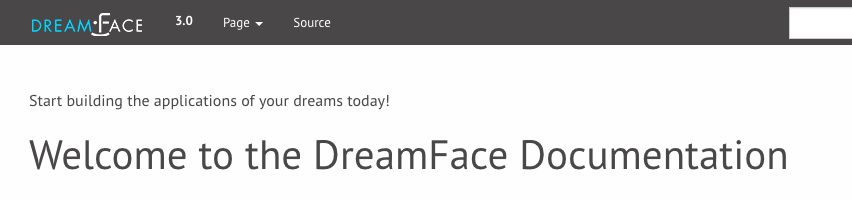
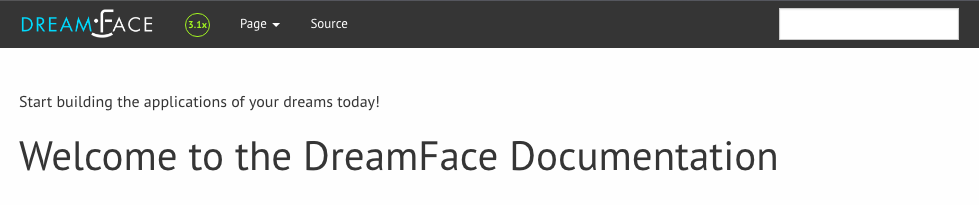
updates to studio explorer

diff --git a/source/devguide/ref-dfx-studio.rst b/source/devguide/ref-dfx-studio.rst
@@ -49,9 +49,9 @@ The Home page has three main sections:
 
     * Information is diplayed
     * Applications get created
-    * View, Pages and API get created and modified
-    * Configuration setting are defined
-    * Application workflow happens here
+    * View, Pages and API service objets and services get created and modified
+    * Configuration settings are defined
+    * Application development workflow happens here. It is where we define, configure and compose our applications.
 
 |
 
@@ -66,22 +66,40 @@ The Icon Bar
 
 .. image:: ../images/devguide/dfx-studio-hp-iconbar-left.png
 
-On the far left of the Icon Bar at the top of the page is the Home icon, the DreamFace logo and name *Studio* and highlighted
-in bright green is the current version of the platform.
+On the the left side of the Icon Bar at the top of the page is
 
-Clicking on the current version will display Release Notes in the canvas area.
+* the Home icon
+* the DreamFace logo
+* the application name *Studio* and
+* the current version of the DreamFace platform highlighted in bright green
+
+Clicking on the Home Icon will redisplay the the Application Platform Stats view or the initial view of the homepage.
+It’s a refresh of the canvas to go back to the initial view and redisplays application stats for all applications. It
+is very helpful when moving between apps and editing components.
+
+Clicking on the bright green current version will display the Release Notes in the canvas area.
 
 .. image:: ../images/devguide/dfx-studio-hp-rnotes.png
+   :width: 400px
 
 |
 
-**Tenant ID**
-
-On the right hand side of the iconbar is the ID of the your cloud tenant, a help icon and a *Sign Out* icon.
+**Tenant ID, Help Menu and Sign Out**
 
 .. image:: ../images/devguide/dfx-studio-hp-iconbar-rt.png
 
-The tenant ID is a unique ID provided by Bluemix. The tenant is a
+On the right hand side of the iconbar is
+
+* the ID of the your cloud tenant
+* a *Help* icon in the form of a bouy and
+* a *Sign Out* icon.
+
+
+The tenant ID can be a name if you create the tenant yourself or on Bluemix, a unique ID assigned by Bluemix to designate
+your unique tenant in the cloud. This tenant holds all of the your application settings, applications, application
+components and application builds. On Bluemix you may have noticed that you didn’t install anything when creating your
+DreamFace service. All development is cloud-based, so no installs are required, just create your tenant and start
+building your applications.
 
 The help menu offers several options for getting help.
 
@@ -89,13 +107,11 @@ The help menu offers several options for getting help.
 
 It includes :
 
-* **Stack Overflow** - A direct connection to the Stack Overflow Forum.
+* **Stack Overflow** - A direct connection to the Stack Overflow Forum with keyword search.
 * **Documentation** - Direct access to the the DreamFace Documentation.
-* **Play with Samples** - A link to view and download Samples Gallery sample components and graphical controls from github.
-* **Get Support** - Direct access the DreamFace Service desk for Reporting Bugs, Feature Requests and Requesting Assistance
-* **Contact Us** - If you don't have support or just want to send a quick message to support you can do it here.
-
-More detail is provided below.
+* **Play with Samples** - A link to view and download Samples Gallery sample components and graphical controls from github directly into your application.
+* **Get Support** - Direct access the DreamFace Service desk for looking up an issue, Reporting Bugs, Feature Requests and Requesting Assistance.
+* **Contact Us** - If you don't have support or just want to send a quick message to us, you can do it here.
 
 |
 
@@ -111,16 +127,23 @@ Pressing *GO* displays Stack Overflow and performs a search on the keywords.
 **Documentation**
 
 .. image:: ../images/devguide/dfx-help-documentation.png
+   :width: 600px
 
-*Documentation* displays the DreamFace documentation home page where developer can consult different documentation guides.
+*Documentation* displays the DreamFace documentation documentation which is presented in a series of guides.
+
+* The Getting Started Guide which provides tutorials for using the product.
+* The Reference Guide, a hands on reference to the product and
+* The Product Guide which gives a high level list of features and benefits, presents pricing and licensing.
+
+The documentation is searchable and you can easily navigate from section to section.
+
 
 |
 
 **Play with Samples**
 
 .. image:: ../images/devguide/dfx-help-playwithsamples.png
-   :width: 600px
-
+   :width: 500px
 
 
 This diplays the download page where developers can explore and download different examples of DreamFace components from
@@ -131,6 +154,7 @@ the Samples Gallery via github into their own application environment.
 **Get Support**
 
 .. image:: ../images/devguide/dfx-help-getsupport.png
+   :width: 700px
 
 
 Login to the DreamFace Service Desk to Search issues on keywords, Report a Bug, Request a New Feature or Request Assistance.
@@ -139,35 +163,42 @@ or replying to a question from the DreamFace support team.
 
 
 .. image:: ../images/devguide/dfx-help-servicedesk.png
+   :width: 600px
 
 |
 
 **Contact Us**
 
 .. image:: ../images/devguide/dfx-help-contactus.png
-   :width: 600px
+   :width: 700px
 
 
 Send a message to the DreamFace Support Team.
 
 |
+
+The Explorer (Left Nav)
+-----------------------
+
+On the left side of the page is the Explorer. The Explorer contains thre options: Platform,
+Applications and Shared Catalogue. It is organized in a tree structure for easily navigating through the different
+settings and components when creating and modifying applications.
+
 |
-
-The Left Nav
-------------
-
-On the left side of the page is the App Explorer. The App Explorer contains thre options: Platform,
-Applications and Shared Catalogue. It is organized in a tree structure for easily navigating through the different setting
-and components when creating and modifying your applications.
-
-|
-
-.. image:: ../images/devguide/dfx-studio-hp-explorer.png
-
-A platform can have one or more applications and each application has its own configuration and components. Shared Catalogue
-contains components that can be used across different applications.
 
 .. image:: ../images/devguide/dfx-studio-hp-leftnav.png
+
+
+A platform can have one or more applications and each application has its own configuration, developer components and
+builds and deployed versions. Shared Catalogue contains components that can be used across different applications.
+
+In the example below we have two applications; *DemoApp* and *Hello World*. Each application has
+
+* Configure - Configuration Settings for the application
+* Develop - development components which include Pages, Views and API Objects
+* Deploy  - option to manage builds and deploy the different versions of the application
+
+.. image:: ../images/devguide/dfx-studio-hp-appexplorer.png
 
 |
 
@@ -187,9 +218,6 @@ canvas area of the page.
 
 |
 
-**The Application Exporer**
-
-A detailed look at the Application Explorer can be found here :ref:`dfx-studio-explorer-label`
 
 The Canvas
 ----------
@@ -213,7 +241,9 @@ The Stats give us a snapshot of our application. In the example below the applic
 Page, 1 View and no API Services. The application called TestApp has 1 Page, 0 Views and 0 API Services
 
 .. image:: ../images/devguide/dfx-studio-1pg-statsx.png
-   :width: 600px
+
+To list the different components of an application click on the component type like *Pages*, *Views* or *APIs*. A list
+of the existing components of that type will be displayed and you can choose the componenet to edit.
 
 |
 

diff --git a/source/devguide/ref-dfx-studio-explorer.rst b/source/devguide/ref-dfx-studio-explorer.rst
@@ -4,7 +4,7 @@ The Explorer
 ============
 
 
-The Application Explorer is presented with a TreeMenu control. The first level of the menu contains:
+The Application Explorer is presented in a hierarchical tree structure control. The first level of the tree contains:
 
 |
 
@@ -18,7 +18,7 @@ Platform, Applications, Shared Catalog Options
 Platform
 --------
 
-**Platform** allows for global parameter settings across applications for Developers and Cloud settings.
+**Platform** give access to the global platform parameter settings across applications including Developers and Cloud settings.
 
 Under the Platform menu there are two options:
 
